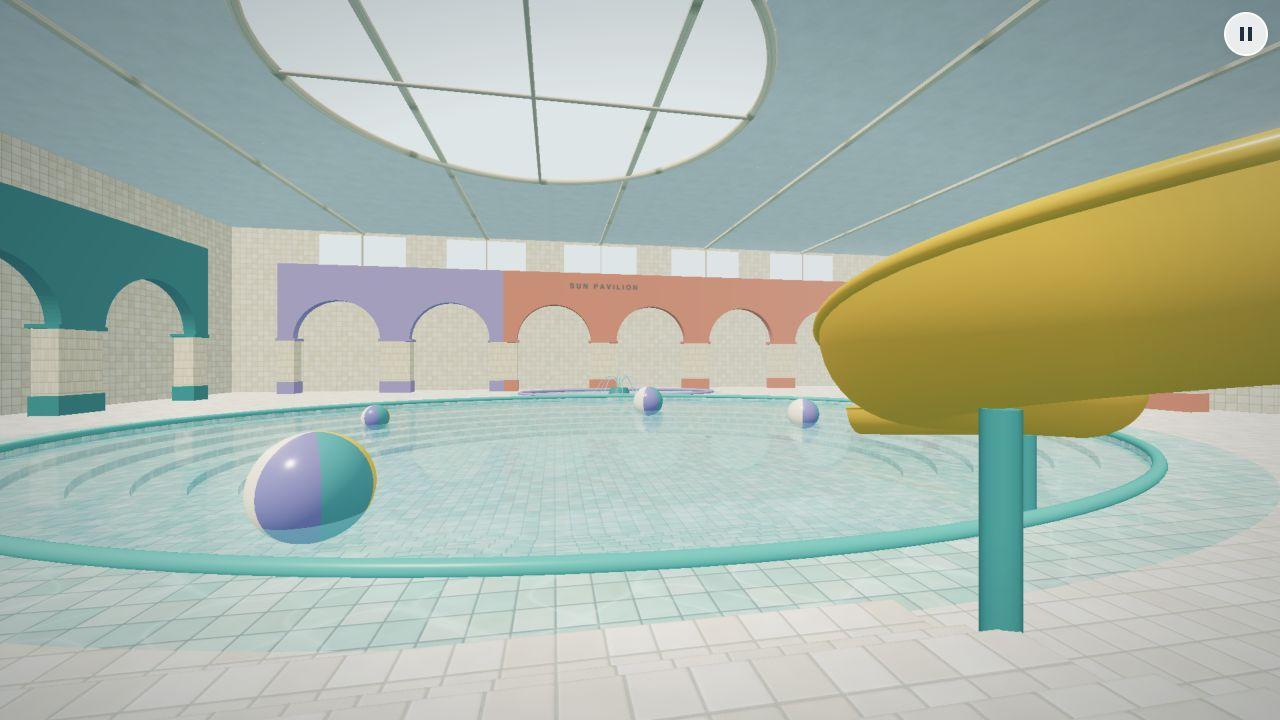
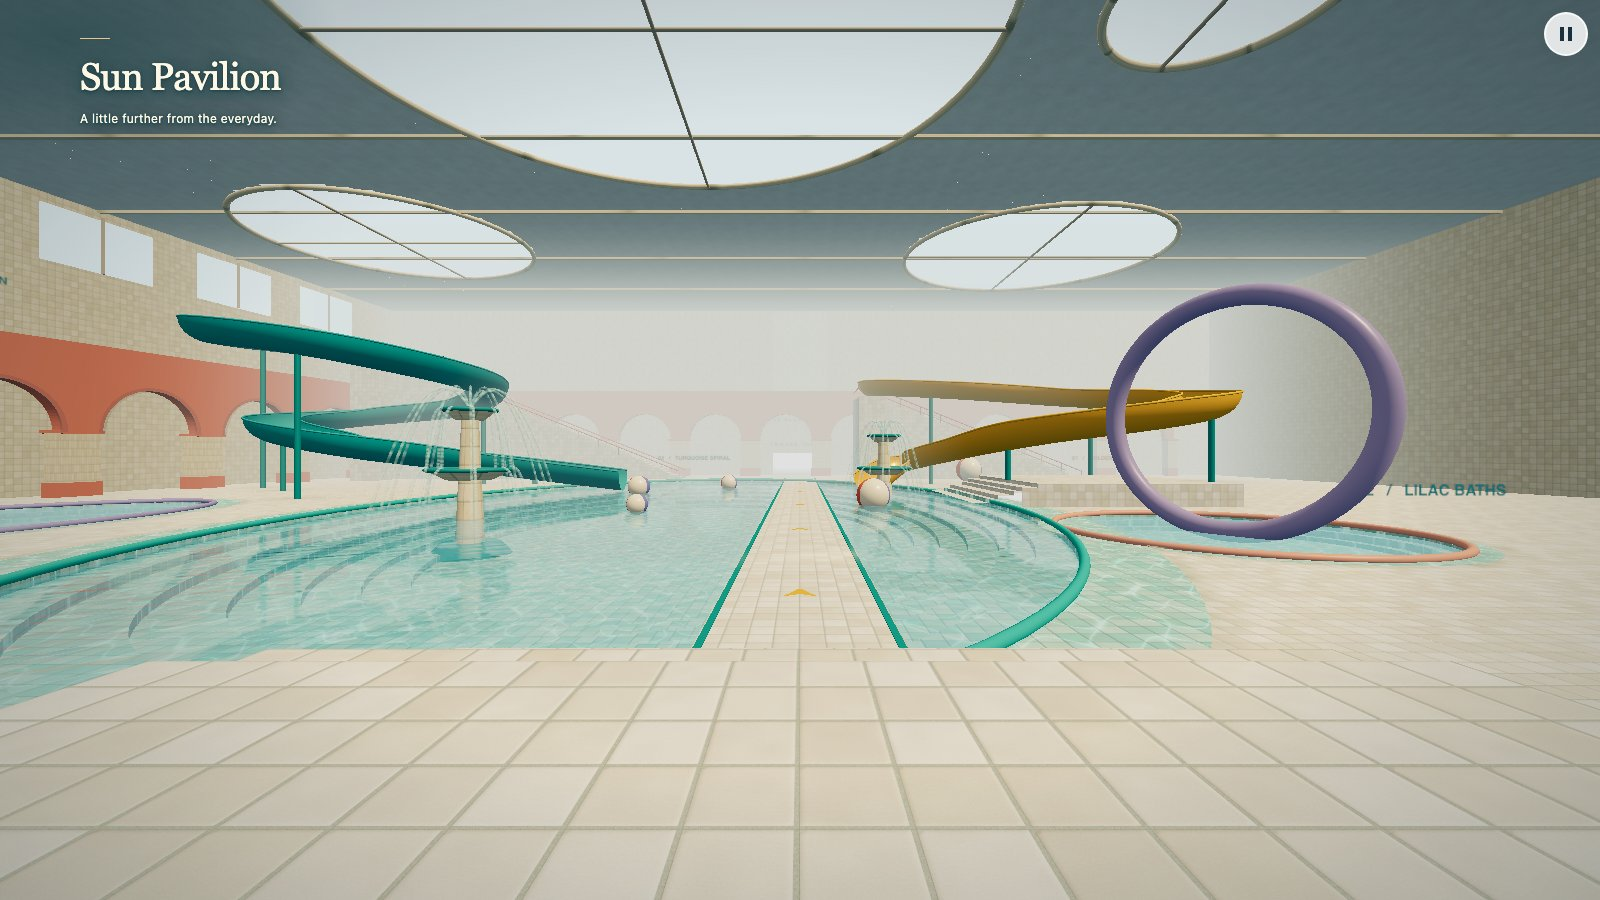
Refresh the Pool Rooms image
Use a fresh September 13 gameplay screenshot of the updated Sun Pavilion for the blog thumbnail and social previews, preserving the existing image path and updating the resource manifest.

diff --git a/REQUIREMENTS.md b/REQUIREMENTS.md
@@ -28,6 +28,7 @@ Functional and security constraints for **ronpicard.com**. Update this file when
 ### Content and routing
 
 - Article metadata MUST live in `src/data/siteArticles.json` and be normalized in `src/data/articles.ts`.
+- The Pool Rooms project MUST use a current local gameplay screenshot for its blog thumbnail and Open Graph image.
 - The Periodic Table Element Visualizer project MUST use a current local screenshot of its elemental interface for its blog thumbnail and Open Graph image.
 - The Fish Tank Simulator project MUST use a current local aquarium screenshot for its blog thumbnail and Open Graph image, include a short introduction and playable demo and source code links, and appear ahead of Pool Rooms among the September 12, 2026 additions.
 - Article metadata MUST pass the shared runtime schema before the app or build scripts consume it.

diff --git a/CHANGELOG.md b/CHANGELOG.md
@@ -8,6 +8,7 @@ The format is based on [Keep a Changelog](https://keepachangelog.com/en/1.1.0/).
 
 ### Changed
 
+- Pool Rooms' blog thumbnail and social link preview use a fresh gameplay screenshot of the updated Sun Pavilion, captured September 13, 2026.
 - Periodic Table Element Visualizer's blog thumbnail and social link preview use a fresh screenshot of the updated elemental interface, captured September 13, 2026.
 - Fish Tank Simulator's blog thumbnail and social link preview use a fresh screenshot of the updated aquarium, captured September 13, 2026.
 - The portfolio grid has larger project titles, brighter dates and supporting text, more room at the edges on phones, and subtle thumbnail framing adjustments. The compact header, neon theme, and three-column desktop layout remain.
